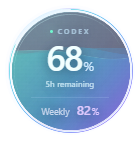
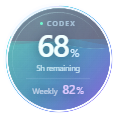
feat: compact toolbar-free orb with smooth edge docking

diff --git a/style.css b/style.css
@@ -1,21 +1,21 @@
-:root{color-scheme:dark;--alpha:.78;--ink:#ecf9ff;--muted:#91a4be;--cyan:#74f5e4;--violet:#bca1ff;font-family:'Segoe UI Variable','Segoe UI','Microsoft YaHei UI',sans-serif;font-size:12px}*{box-sizing:border-box}html,body{margin:0;width:100%;height:100%;overflow:hidden;background:transparent;color:var(--ink);user-select:none}button,select,input{font:inherit}button{cursor:pointer;border:0;color:inherit;background:transparent;outline:none}button:focus-visible,select:focus-visible,input:focus-visible{outline:2px solid var(--cyan);outline-offset:2px}button:hover{background:#ffffff13;color:white}button:active{transform:scale(.94)}button{transition:background .2s,transform .15s,color .2s;border-radius:8px}body[data-mode=orb] .panel-mode,body[data-mode=panel] .orb-mode{display:none}.orb-mode{position:relative;width:184px;height:210px;padding-top:14px}.sphere{position:relative;width:158px;height:158px;margin:0 auto;border-radius:50%;cursor:grab;touch-action:none;background:radial-gradient(ellipse at 32% 10%,rgba(141,217,255,.18),transparent 58%),radial-gradient(ellipse at 65% 90%,rgba(104,61,236,.19),transparent 70%);border:1px solid #b3d9ff35;box-shadow:inset 0 0 28px #a4c3ff12,0 0 0 5px #85a9ff06}.sphere:active{cursor:grabbing}.sphere canvas{position:absolute;inset:-12px;width:180px;height:180px;pointer-events:none}.orb-copy{position:absolute;inset:0;display:flex;align-items:center;justify-content:center;flex-direction:column;text-shadow:0 2px 12px #09172f88;pointer-events:none}.orb-brand{font-size:9px;font-weight:650;color:#c8eaffb3;margin-bottom:5px}.orb-number{font-size:46px;font-weight:580;line-height:1.1;letter-spacing:-2.5px;color:#f1ffff}.orb-number small{font-size:18px;margin-left:3px;letter-spacing:-.5px;font-weight:400;color:#d0eaff}.orb-label{font-size:10px;color:#def8ffbb;letter-spacing:1px;margin-top:6px}.specular{position:absolute;inset:7px;border-radius:50%;border-top:1px solid #ceffff50;transform:rotate(-27deg);pointer-events:none}.orb-week{position:absolute;top:162px;left:30px;right:30px;display:flex;align-items:center;justify-content:center;gap:6px;border:1px solid #c2c4ff32;border-radius:20px;padding:5px 4px 5px 9px;background:rgba(18,26,52,var(--alpha));box-shadow:0 4px 14px #040b2229;font-size:10px;white-space:nowrap;backdrop-filter:blur(12px)}.orb-week button{font-size:15px;line-height:14px;width:20px;padding:0;color:#a6a9ce}.orb-tools{position:absolute;bottom:0;left:45px;display:flex;opacity:0;transition:opacity .2s;gap:5px;background:#121d34ce;border:1px solid #b3c4ff20;border-radius:12px;padding:2px}.orb-mode:hover .orb-tools,.orb-mode:focus-within .orb-tools{opacity:1}.orb-tools button{width:24px;height:21px;color:#c6d3eb}.dot{display:inline-block;width:5px;height:5px;border-radius:50%;background:#71f5ce;box-shadow:0 0 8px #71f5ce88;flex-shrink:0}.dot.warning{background:#ffbd7d;box-shadow:0 0 8px #ffbd7d66}.dot.loading{background:#94a7bd;box-shadow:none}.glass{background:linear-gradient(130deg,rgba(22,39,58,var(--alpha)),rgba(22,24,48,var(--alpha)) 65%,rgba(39,27,64,var(--alpha)));border:1px solid #c1dfff2b;box-shadow:inset 0 1px 0 #ffffff0d,0 8px 30px #05081930;backdrop-filter:blur(22px)}.panel-mode{position:absolute;inset:12px;border-radius:23px;padding:20px 20px 0;overflow:hidden}.panel-mode:before,.settings-card:before{content:'';position:absolute;top:-80px;right:-45px;width:160px;height:150px;border-radius:50%;background:#935dff1b;filter:blur(40px);pointer-events:none}header{display:flex;align-items:center;position:relative;gap:10px}.brand-icon{width:32px;height:32px;display:grid;place-items:center;background:linear-gradient(140deg,#5cefd023,#7e62fa27);border:1px solid #a8e3f22c;border-radius:11px;color:#9df9ee;font-size:30px;line-height:1}.brand strong{font-weight:650;font-size:15px;letter-spacing:-.3px}.brand strong span{color:#a3acc5;font-weight:400}.brand>div{font-size:7px;letter-spacing:1.7px;color:#8a9ab8;margin-top:4px}nav{display:flex;margin-left:auto;gap:1px}nav button{font-size:16px;width:24px;height:27px;color:#899bb9}.eyebrow{display:flex;align-items:center;justify-content:space-between;margin:22px 0 18px;font-size:10px;color:#a8bbcc}.eyebrow>span:first-child{display:flex;align-items:center;gap:7px}.badge{font-size:8px;letter-spacing:1px;border:1px solid #9f91dc33;border-radius:5px;padding:3px 6px;color:#c9b3f1;background:#ac7dff0a}.metrics{display:flex;position:relative;gap:20px}.metrics article{flex:1;min-width:0}.metric-title{font-size:11px;color:#c5d5e8;white-space:nowrap}.metric-title span{display:block;font-size:7px;letter-spacing:1.3px;color:#7186a4;margin-top:5px}.metric-number{font-size:43px;font-weight:530;line-height:1.15;margin-top:9px;letter-spacing:-1.8px;font-variant-numeric:tabular-nums}.metric-number small{font-size:18px;margin-left:3px;font-weight:350;letter-spacing:-.4px}.cyan{color:var(--cyan)}.violet{color:var(--violet)}.metric-sub{font-size:9px;color:#7e95ae;margin-top:2px}.track{height:4px;background:#9bafdc16;border-radius:5px;margin-top:14px;overflow:hidden}.fill{width:0;height:100%;border-radius:5px;background:linear-gradient(90deg,#3badbf,#90ffe0);box-shadow:0 0 8px #85fff544;transition:width 1.5s ease}.fill.purple{background:linear-gradient(90deg,#7860cf,#d2adff)}.reset{font-size:9px;color:#95a4bc;margin-top:9px;white-space:nowrap}.divider{width:1px;background:linear-gradient(transparent,#c5d7ff1d,transparent)}footer{margin-top:20px;border-top:1px solid #a7bcf315;padding:11px 0;display:flex;justify-content:space-between;align-items:center;font-size:9px;color:#7f92ac}footer button{font-size:11px;color:#a0adca;padding:3px 4px}footer button span{font-size:9px;margin-left:3px}.status-message{display:none}.panel-mode.has-error .status-message{display:block;position:absolute;inset:auto 10px 8px;background:#282335f5;border:1px solid #e3aa6544;border-radius:10px;padding:8px;color:#f1cfa5;font-size:10px;line-height:1.5}.refreshing #refreshButton{color:#8deedb}body.stale .orb-number{color:#e2d9c7}body.no-motion *{transition:none!important;animation:none!important}
+:root{color-scheme:dark;--alpha:.78;--ink:#ecf9ff;--muted:#91a4be;--cyan:#74f5e4;--violet:#bca1ff;font-family:'Segoe UI Variable','Segoe UI','Microsoft YaHei UI',sans-serif;font-size:12px}*{box-sizing:border-box}html,body{margin:0;width:100%;height:100%;overflow:hidden;background:transparent;color:var(--ink);user-select:none}button,select,input{font:inherit}button{cursor:pointer;border:0;color:inherit;background:transparent;outline:none}button:focus-visible,select:focus-visible,input:focus-visible{outline:2px solid var(--cyan);outline-offset:2px}button:hover{background:#ffffff13;color:white}button:active{transform:scale(.94)}button{transition:background .2s,transform .15s,color .2s;border-radius:8px}body[data-mode=orb] .panel-mode,body[data-mode=panel] .orb-mode{display:none}.orb-mode{position:relative;width:184px;height:210px;padding-top:14px}.sphere{position:relative;width:158px;height:158px;margin:0 auto;border-radius:50%;cursor:grab;touch-action:none;background:radial-gradient(ellipse at 32% 10%,rgba(141,217,255,.18),transparent 58%),radial-gradient(ellipse at 65% 90%,rgba(104,61,236,.19),transparent 70%);border:1px solid #b3d9ff35;box-shadow:inset 0 0 28px #a4c3ff12,0 0 0 5px #85a9ff06}.sphere:active{cursor:grabbing}.sphere canvas{position:absolute;inset:-12px;width:180px;height:180px;pointer-events:none}.orb-copy{position:absolute;inset:0;display:flex;align-items:center;justify-content:center;flex-direction:column;text-shadow:0 2px 12px #09172f88;pointer-events:none}.orb-brand{font-size:9px;font-weight:650;color:#c8eaffb3;margin-bottom:5px}.orb-number{font-size:46px;font-weight:580;line-height:1.1;letter-spacing:-2.5px;color:#f1ffff}.orb-number small{font-size:18px;margin-left:3px;letter-spacing:-.5px;font-weight:400;color:#d0eaff}.orb-label{font-size:10px;color:#def8ffbb;letter-spacing:1px;margin-top:6px}.specular{position:absolute;inset:7px;border-radius:50%;border-top:1px solid #ceffff50;transform:rotate(-27deg);pointer-events:none}.orb-week{position:absolute;top:162px;left:30px;right:30px;display:flex;align-items:center;justify-content:center;gap:6px;border:1px solid #c2c4ff32;border-radius:20px;padding:5px 4px 5px 9px;background:rgba(18,26,52,var(--alpha));box-shadow:0 4px 14px #040b2229;font-size:10px;white-space:nowrap;backdrop-filter:blur(12px)}.orb-week button{font-size:15px;line-height:14px;width:20px;padding:0;color:#a6a9ce}.dot{display:inline-block;width:5px;height:5px;border-radius:50%;background:#71f5ce;box-shadow:0 0 8px #71f5ce88;flex-shrink:0}.dot.warning{background:#ffbd7d;box-shadow:0 0 8px #ffbd7d66}.dot.loading{background:#94a7bd;box-shadow:none}.glass{background:linear-gradient(130deg,rgba(22,39,58,var(--alpha)),rgba(22,24,48,var(--alpha)) 65%,rgba(39,27,64,var(--alpha)));border:1px solid #c1dfff2b;box-shadow:inset 0 1px 0 #ffffff0d,0 8px 30px #05081930;backdrop-filter:blur(22px)}.panel-mode{position:absolute;inset:12px;border-radius:23px;padding:20px 20px 0;overflow:hidden}.panel-mode:before,.settings-card:before{content:'';position:absolute;top:-80px;right:-45px;width:160px;height:150px;border-radius:50%;background:#935dff1b;filter:blur(40px);pointer-events:none}header{display:flex;align-items:center;position:relative;gap:10px}.brand-icon{width:32px;height:32px;display:grid;place-items:center;background:linear-gradient(140deg,#5cefd023,#7e62fa27);border:1px solid #a8e3f22c;border-radius:11px;color:#9df9ee;font-size:30px;line-height:1}.brand strong{font-weight:650;font-size:15px;letter-spacing:-.3px}.brand strong span{color:#a3acc5;font-weight:400}.brand>div{font-size:7px;letter-spacing:1.7px;color:#8a9ab8;margin-top:4px}nav{display:flex;margin-left:auto;gap:1px}nav button{font-size:16px;width:24px;height:27px;color:#899bb9}.eyebrow{display:flex;align-items:center;justify-content:space-between;margin:22px 0 18px;font-size:10px;color:#a8bbcc}.eyebrow>span:first-child{display:flex;align-items:center;gap:7px}.badge{font-size:8px;letter-spacing:1px;border:1px solid #9f91dc33;border-radius:5px;padding:3px 6px;color:#c9b3f1;background:#ac7dff0a}.metrics{display:flex;position:relative;gap:20px}.metrics article{flex:1;min-width:0}.metric-title{font-size:11px;color:#c5d5e8;white-space:nowrap}.metric-title span{display:block;font-size:7px;letter-spacing:1.3px;color:#7186a4;margin-top:5px}.metric-number{font-size:43px;font-weight:530;line-height:1.15;margin-top:9px;letter-spacing:-1.8px;font-variant-numeric:tabular-nums}.metric-number small{font-size:18px;margin-left:3px;font-weight:350;letter-spacing:-.4px}.cyan{color:var(--cyan)}.violet{color:var(--violet)}.metric-sub{font-size:9px;color:#7e95ae;margin-top:2px}.track{height:4px;background:#9bafdc16;border-radius:5px;margin-top:14px;overflow:hidden}.fill{width:0;height:100%;border-radius:5px;background:linear-gradient(90deg,#3badbf,#90ffe0);box-shadow:0 0 8px #85fff544;transition:width 1.5s ease}.fill.purple{background:linear-gradient(90deg,#7860cf,#d2adff)}.reset{font-size:9px;color:#95a4bc;margin-top:9px;white-space:nowrap}.divider{width:1px;background:linear-gradient(transparent,#c5d7ff1d,transparent)}footer{margin-top:20px;border-top:1px solid #a7bcf315;padding:11px 0;display:flex;justify-content:space-between;align-items:center;font-size:9px;color:#7f92ac}footer button{font-size:11px;color:#a0adca;padding:3px 4px}footer button span{font-size:9px;margin-left:3px}.status-message{display:none}.panel-mode.has-error .status-message{display:block;position:absolute;inset:auto 10px 8px;background:#282335f5;border:1px solid #e3aa6544;border-radius:10px;padding:8px;color:#f1cfa5;font-size:10px;line-height:1.5}.refreshing #refreshButton{color:#8deedb}body.stale .orb-number{color:#e2d9c7}body.no-motion *{transition:none!important;animation:none!important}
 /* Settings shares the same translucent desktop material. */
 .settings-card{position:absolute;inset:12px;padding:24px;border-radius:24px;overflow:hidden}.settings-card header{margin-bottom:22px}.settings-card header strong{font-size:17px;font-weight:600}.settings-card header button{margin-left:auto;color:#9cb0ca;font-size:20px;width:28px;height:28px}.section-label{font-size:9px;color:#7793ad;letter-spacing:1.8px;margin:20px 0 10px}.segmented{display:flex;background:#040f252f;border:1px solid #b2d6ff1b;border-radius:12px;padding:4px;gap:4px}.segmented button{flex:1;padding:10px;color:#8ea5be;font-size:12px}.segmented button.selected{color:#d3fff7;background:linear-gradient(120deg,#56dfc823,#9c80ff2b);box-shadow:inset 0 0 0 1px #a1e7ff26;border-radius:8px}.setting-row{display:flex;align-items:center;justify-content:space-between;margin:18px 0;color:#c3d1e5;font-size:12px}.setting-row small{display:block;font-size:9px;color:#7d93ac;margin-top:5px}.setting-row select{background:#131e36;border:1px solid #bfdfff26;color:#b9f4ec;border-radius:8px;padding:6px 8px;font-size:11px}.setting-row input[type=checkbox]{appearance:none;width:32px;height:18px;border-radius:12px;background:#9db6d72b;position:relative;cursor:pointer;transition:background .2s}.setting-row input[type=checkbox]:before{content:'';position:absolute;top:3px;left:3px;width:12px;height:12px;border-radius:50%;background:#a2afc3;transition:transform .2s}.setting-row input:checked{background:#5ee8cb55}.setting-row input:checked:before{transform:translateX(14px);background:#abfff0}.range-row{margin-top:14px}.range-row label{display:flex;justify-content:space-between;color:#b0c6de;font-size:11px}.range-row output{color:#a0f3e5}.range-row input{width:100%;accent-color:#91e8dd;height:3px;margin:15px 0 2px}.settings-note{border-top:1px solid #a7bcf315;padding-top:15px;margin-top:20px;font-size:10px;color:#8398b1;line-height:1.7}.settings-state{font-size:10px;color:#91d5c6;line-height:1.6;overflow-wrap:anywhere;margin-top:10px;max-height:60px;overflow:auto}.settings-state.error{color:#edc593}.settings-foot{display:flex;justify-content:space-between;margin-top:18px;color:#667d9c;font-size:9px;align-items:center}.settings-foot button{color:#c2a8ce;padding:5px 8px;font-size:10px}
 /* Compact orb: both limits live inside the glass circle. */
-.orb-mode{width:140px;height:154px;padding-top:8px}
-.sphere{width:124px;height:124px;box-shadow:inset 0 0 22px #a4c3ff12,0 0 0 3px #85a9ff06}
-.sphere canvas{inset:-10px;width:144px;height:144px}
-.orb-copy{justify-content:flex-start;padding-top:17px}
-.orb-brand{display:flex;align-items:center;gap:5px;font-size:7px;letter-spacing:2px;margin:0 0 3px;font-weight:600}
+.orb-mode{width:116px;height:116px;padding-top:6px}
+.sphere{width:104px;height:104px;box-shadow:inset 0 0 22px #a4c3ff12,0 0 0 3px #85a9ff06}
+.sphere canvas{inset:-10px;width:124px;height:124px}
+.orb-copy{justify-content:flex-start;padding-top:12px}
+.orb-brand{display:flex;align-items:center;gap:4px;font-size:6.5px;line-height:9px;letter-spacing:1.6px;margin:0 0 1px;font-weight:600}
 .orb-brand .dot{width:3px;height:3px}
-.orb-number{font-size:35px;line-height:1.05;letter-spacing:-1.8px;font-weight:560}
-.orb-number small{font-size:13px;margin-left:2px}
-.orb-label{font-size:8px;letter-spacing:.2px;margin-top:2px;color:#e0f8ffd4}
-.orb-week{position:static;display:flex;align-items:baseline;justify-content:center;gap:7px;width:78px;margin:8px 0 0;padding:5px 0 0;border:0;border-top:1px solid #c3e3ff2a;border-radius:0;background:transparent;box-shadow:none;backdrop-filter:none;font-size:9px;color:#cbd8ee}
-.orb-week strong{font-size:13px;font-weight:600;color:#e0caff;letter-spacing:-.2px;line-height:1}
+.orb-number{font-size:31px;line-height:1.05;letter-spacing:-1.8px;font-weight:560}
+.orb-number small{font-size:11px;margin-left:2px}
+.orb-label{font-size:7.5px;line-height:10px;letter-spacing:0;margin-top:1px;color:#e0f8ffd4}
+.orb-week{position:static;display:flex;align-items:baseline;justify-content:center;gap:5px;width:64px;margin:5px 0 0;padding:4px 0 0;border:0;border-top:1px solid #c3e3ff2a;border-radius:0;background:transparent;box-shadow:none;backdrop-filter:none;font-size:8px;color:#cbd8ee}
+.orb-week strong{font-size:12px;font-weight:600;color:#e0caff;letter-spacing:-.2px;line-height:1}
 .orb-week strong small{font-size:9px;margin-left:1px;font-weight:400}
-.orb-tools{bottom:1px;left:21px;gap:1px;padding:2px;border-radius:10px;z-index:2}
-.orb-tools button{width:22px;height:18px;font-size:12px}
+
+
 .specular{inset:5px}
 .brand-icon{display:block;object-fit:contain;border:0;border-radius:0;background:none}
 .metric-title .title-text{font-size:11px;letter-spacing:0;color:#c5d5e8;margin-top:0}

diff --git a/index.html b/index.html
@@ -6,7 +6,6 @@
     <div class="orb-copy"><div class="orb-brand"><i id="orbDot" class="dot loading"></i>CODEX</div><div id="orbPrimary" class="orb-number">--<small>%</small></div><div class="orb-label" data-i18n="primaryLabel">5h remaining</div><div class="orb-week"><span id="orbWeeklyLabel" data-i18n="secondaryLabel">Weekly</span><strong id="orbSecondary">--<small>%</small></strong></div></div>
     <span class="specular"></span>
   </div>
-  <div class="orb-tools"><button data-action="mode" data-value="panel" data-i18n-title="switchPanel">↗</button><button data-action="refresh" data-i18n-title="refresh">↻</button><button data-action="settings" data-i18n-title="settings">⚙</button><button data-action="hide" data-i18n-title="hide">−</button></div>
 </main>
 <main id="panel" class="panel-mode glass">
   <header><img class="brand-icon" src="icon.png" alt=""><div class="brand"><strong>Codex <span>Halo</span></strong><div data-i18n="tagline">YOUR USAGE, IN FLOW</div></div><nav><button data-action="mode" data-value="orb" data-i18n-title="switchOrb">◉</button><button data-action="settings" data-i18n-title="settings">⚙</button><button data-action="hide" data-i18n-title="hide">−</button></nav></header>

diff --git a/settings.html b/settings.html
@@ -10,5 +10,5 @@
 <label class="setting-row" for="startup"><span data-i18n="startup">Launch at sign-in</span><input id="startup" type="checkbox"></label>
 <label class="setting-row" for="followCodex"><span><span data-i18n="followCodex">Follow Codex</span><small data-i18n="followCodexHint"></small><small id="desktopStatus" class="presence-status"></small></span><input id="followCodex" type="checkbox"></label>
 <div class="settings-note"><div data-i18n="noteMapping"></div><div data-i18n="noteControls"></div><div data-i18n="noteWeekly"></div></div>
-<div class="settings-state" id="connectionState" role="status"></div><div class="settings-foot"><span>CODEX HALO · 1.2.0</span><button id="quit" data-i18n="quit">Quit Halo</button></div>
+<div class="settings-state" id="connectionState" role="status"></div><div class="settings-foot"><span>CODEX HALO · 1.3.0</span><button id="quit" data-i18n="quit">Quit Halo</button></div>
 </main><script src="i18n.js"></script><script src="settings.js"></script></body></html>

diff --git a/README.md b/README.md
@@ -13,14 +13,15 @@ Keep your remaining percentages, usage indicators and reset countdowns beside yo
 
 | Water orb | Corner panel |
 | :---: | :---: |
-| <img src="docs/images/orb-en.png" width="140" alt="Compact orb with both limits inside the circle"> | <img src="docs/images/panel-en.png" width="368" alt="Usage panel with remaining percentages and reset countdowns"> |
+| <img src="docs/images/orb-en.png" width="116" alt="Compact orb with both limits inside the circle"> | <img src="docs/images/panel-en.png" width="368" alt="Usage panel with remaining percentages and reset countdowns"> |
 | Compact, draggable and always visible | Both windows, progress bars and reset times at a glance |
 
 *Previews use example data: 68% remaining for 5 hours and 82% for the week. No real account usage is shown.*
 
 ## Features
 
-- **Two display modes:** a 124px water orb or a panel anchored to the bottom-right of your display's work area.
+- **Two display modes:** a clean 104px water orb with no button strip, or a panel anchored to the bottom-right of your display's work area.
+- **Release to snap:** the orb glides to the nearest left or right edge after dragging, preserves its height and remembers the docked position.
 - **Readable usage:** water level shows the 5-hour remainder; the outer ring and lower number show the weekly remainder.
 - **Automatic updates:** refresh every 15 seconds by default, choose 10 / 15 / 30 / 60 seconds, or refresh manually.
 - **Transparent gradients:** cyan-to-violet glass, adjustable opacity and optional flowing waves.
@@ -42,7 +43,7 @@ The portable build requires Windows 10/11 x64 and an available Codex CLI. It doe
 | --- | --- |
 | Drag the orb | Move it between positions and displays |
 | Double-click the orb | Switch to the corner panel |
-| Hover over the orb | Reveal switch, refresh, settings and hide buttons |
+| Release after dragging | Snap to the closest left or right edge of that display |
 | Right-click the widget or tray icon | Show, switch, configure, hide or quit |
 | Open settings | Change language, opacity, animation, topmost mode, refresh interval and startup |
 

diff --git a/README.zh-CN.md b/README.zh-CN.md
@@ -13,14 +13,15 @@
 
 | 水波悬浮球 | 右下角面板 |
 | :---: | :---: |
-| <img src="docs/images/orb-zh.png" width="140" alt="圆内显示 5 小时和每周额度的悬浮球"> | <img src="docs/images/panel-zh.png" width="368" alt="显示剩余百分比与重置倒计时的用量面板"> |
+| <img src="docs/images/orb-zh.png" width="116" alt="圆内显示 5 小时和每周额度的悬浮球"> | <img src="docs/images/panel-zh.png" width="368" alt="显示剩余百分比与重置倒计时的用量面板"> |
 | 小巧可拖动，随时看剩余量 | 两个周期、进度条和倒计时，一眼看清 |
 
 *预览为示例数据：5 小时剩余 68%，每周剩余 82%；不包含真实账户用量。*
 
 ## 功能
 
-- **两种显示方式**：124px 水波悬浮球 / 固定在屏幕工作区右下角的面板，随时切换。
+- **两种显示方式**：没有按钮条的 104px 纯净水波悬浮球 / 固定在屏幕工作区右下角的面板，随时切换。
+- **松手自动靠边**：拖动后平滑吸附到当前屏幕最近的左侧或右侧，保留高度，并记住吸附位置。
 - **用量直观可见**：球内水位表示 5 小时剩余，外环及圆内下方数字表示每周剩余。
 - **持续自动更新**：默认每 15 秒刷新，可选 10 / 15 / 30 / 60 秒，也可以立即刷新。
 - **透明渐变与动画**：青蓝紫玻璃效果，可调整不透明度、关闭流动水波。
@@ -42,7 +43,7 @@
 | --- | --- |
 | 拖动球体 | 移动悬浮球，支持多显示器 |
 | 双击球体 | 切换到右下角面板 |
-| 鼠标移到球上 | 显示切换、刷新、设置和隐藏按钮 |
+| 拖动后松手 | 吸附到当前屏幕最近的左侧或右侧 |
 | 右键窗口或托盘图标 | 显示、切换、设置、隐藏或退出 |
 | 打开设置 | 调整语言、透明度、动画、置顶、刷新间隔及开机启动 |
 

diff --git a/CHANGELOG.md b/CHANGELOG.md
@@ -1,5 +1,17 @@
 # Changelog / 更新记录
 
+## 1.3.0
+
+- Remove the orb's entire hover toolbar; use right-click and the tray for commands.
+- Reduce the orb diameter to 104px and remove the empty strip below it.
+- Smoothly dock to the nearest left/right edge on release, preserve height and remember position.
+- Keep the orb inside the display work area across multi-monitor and display changes.
+
+- 删除球下方的整排悬停按钮，操作统一放在右键和托盘。
+- 球体缩至 104px，并去掉底部多余区域。
+- 松手平滑吸附左右边缘，保留高度、记住位置。
+- 支持多显示器及工作区边界，避免遮挡任务栏或移出屏幕。
+
 ## 1.2.0
 
 - Launch at sign-in defaults on for new installs, with a quiet tray-only start until Codex runs.
